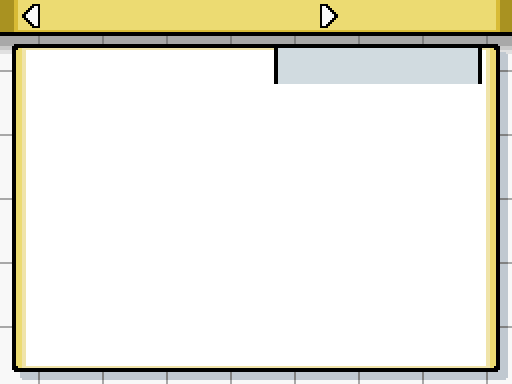
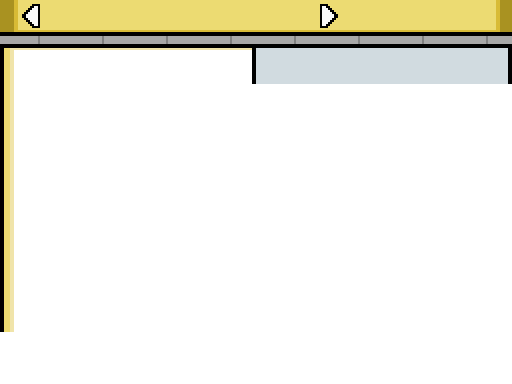
Basic version of tutor moves list sorting options in masterdex
Can press Special to cycle through sorting by name, base power, and type (with backup sort by name for collissions)

Changed region(s): [[0.0, 0.0938, 1.0, 1.0], [0.4688, 0.125, 0.5625, 0.2188]]

diff --git a/Plugins/Tectonic MasterDex/PokeDex Entry/PokemonPokedexInfo_Scene.rb b/Plugins/Tectonic MasterDex/PokeDex Entry/PokemonPokedexInfo_Scene.rb
@@ -73,12 +73,12 @@ class PokemonPokedexInfo_Scene
         @sprites["downarrow"].play
         @sprites["downarrow"].visible = false
         @sprites["leftarrow"] = AnimatedSprite.new("Graphics/Pictures/leftarrow", 8, 40, 28, 2, @viewport)
-        @sprites["leftarrow"].x = 48
+        @sprites["leftarrow"].x = 32
         @sprites["leftarrow"].y = 52
         @sprites["leftarrow"].play
         @sprites["leftarrow"].visible = false
         @sprites["rightarrow"] = AnimatedSprite.new("Graphics/Pictures/rightarrow", 8, 40, 28, 2, @viewport)
-        @sprites["rightarrow"].x = 184
+        @sprites["rightarrow"].x = 172
         @sprites["rightarrow"].y = 52
         @sprites["rightarrow"].play
         @sprites["rightarrow"].visible = false
@@ -86,7 +86,7 @@ class PokemonPokedexInfo_Scene
         @sprites["selectionarrow"] = IconSprite.new(0, 0, @viewport)
         @sprites["selectionarrow"].setBitmap("Graphics/Pictures/selarrow")
         @sprites["selectionarrow"].visible = false
-        @sprites["selectionarrow"].x = 32
+        @sprites["selectionarrow"].x = 20
         # Create the move extra info display
         @moveInfoDisplay = SpriteWrapper.new(@viewport)
         @moveInfoDisplay.bitmap = @moveInfoDisplayBitmap.bitmap
@@ -98,6 +98,7 @@ class PokemonPokedexInfo_Scene
 
         @scroll = -1
         @horizontalScroll = 0
+        $PokemonGlobal.dex_tutor_list_sort_mode = 0 if $PokemonGlobal.dex_tutor_list_sort_mode.nil?
         @showShinyForms = $PokemonGlobal.dex_forms_shows_shinies || false
         @title = "Undefined"
         pbSetSystemFont(@sprites["overlay"].bitmap)
@@ -692,6 +693,7 @@ sp.form) && !Settings::DEX_SHOWS_ALL_FORMS
     MAX_LENGTH_MOVE_LIST = 7
     MOVE_LIST_SUMMARY_MOVE_NAMES_Y_INIT = 54
 
+
     def drawPageLevelUpMoves
         bg_path = "Graphics/Pictures/Pokedex/bg_moves"
         bg_path += "_dark" if darkMode?
@@ -699,7 +701,7 @@ sp.form) && !Settings::DEX_SHOWS_ALL_FORMS
         overlay = @sprites["overlay"].bitmap
         formname = ""
         selected_move = nil
-        xLeft = 36
+        xLeft = 24
         for i in @available
             next unless i[2] == @form
             formname = i[0]
@@ -716,7 +718,7 @@ sp.form) && !Settings::DEX_SHOWS_ALL_FORMS
                 levelLabel = _INTL("E") if level == 0
                 # Draw stat line
                 offsetX = 0
-                maxWidth = displayIndex == 0 ? 158 : 170
+                maxWidth = displayIndex == 0 ? 170 : 182
                 moveName, moveColor, moveShadow = getFormattedMoveName(move, maxWidth)
                 if listIndex == @scroll
                     offsetX = 12
@@ -742,49 +744,76 @@ sp.form) && !Settings::DEX_SHOWS_ALL_FORMS
         bg_path += "_dark" if darkMode?
         @sprites["background"].setBitmap(_INTL(bg_path))
         overlay = @sprites["overlay"].bitmap
-        formname = ""
         base   = MessageConfig.pbDefaultTextMainColor
         shadow = MessageConfig.pbDefaultTextShadowColor
 
         selected_move = nil
-        xLeft = 36
+        xLeft = 24
         for i in @available
             next unless i[2] == @form
-            formname = i[0]
             species_data = GameData::Species.get_species_form(@species, i[2])
             firstSpecies = species_data
             while GameData::Species.get(firstSpecies.get_previous_species) != firstSpecies
                 firstSpecies = GameData::Species.get(firstSpecies.get_previous_species)
             end
 
-            compatibleMoves = firstSpecies.egg_moves + species_data.tutor_moves
-            compatibleMoves.uniq!
-            compatibleMoves.compact!
+            # Create the seperate moves list
+            compatibleMoves = species_data.learnable_moves
             compatiblePhysMoves = compatibleMoves.select do |move|
                 movaData = GameData::Move.get(move)
                 next movaData.category == 0 || movaData.category == 3
             end
-            compatiblePhysMoves.sort_by!{|moveID| GameData::Move.get(moveID).name}
             compatibleSpecMoves = compatibleMoves.select do |move|
                 movaData = GameData::Move.get(move)
                 next movaData.category == 1 || movaData.category == 3
             end
-            compatibleSpecMoves.sort_by!{|moveID| GameData::Move.get(moveID).name}
             compatibleStatusMoves = compatibleMoves.select do |move|
                 movaData = GameData::Move.get(move)
                 next movaData.category == 2
             end
-            compatibleStatusMoves.sort_by!{|moveID| GameData::Move.get(moveID).name}
+
+            # sort the moves lists
+            tutorMovesSorting = Proc.new { |moveA, moveB|
+                moveAData = GameData::Move.get(moveA)
+                moveBData = GameData::Move.get(moveB)
+                case $PokemonGlobal.dex_tutor_list_sort_mode
+                when 0
+                    next moveAData.name <=> moveBData.name
+                when 1
+                    if moveAData.base_damage == moveBData.base_damage
+                        next moveAData.name <=> moveBData.name
+                    else
+                        next moveBData.base_damage <=> moveAData.base_damage # reversed
+                    end
+                when 2
+                    if moveAData.type == moveBData.type
+                        next moveAData.name <=> moveBData.name
+                    else
+                        next GameData::Type.get(moveAData.type).id_number <=> GameData::Type.get(moveBData.type).id_number
+                    end
+                end
+            }
+            compatiblePhysMoves.sort!{ |moveA, moveB|
+                tutorMovesSorting.call(moveA, moveB)
+            }
+            compatibleSpecMoves.sort!{ |moveA, moveB|
+                tutorMovesSorting.call(moveA, moveB)
+            }
+            compatibleStatusMoves.sort!{ |moveA, moveB|
+                tutorMovesSorting.call(moveA, moveB)
+            }
+
+            # render the moves lists
             @scrollableLists = [compatiblePhysMoves, compatibleSpecMoves, compatibleStatusMoves]
             categoryName = [_INTL("Physical"),_INTL("Special"),_INTL("Status")][@horizontalScroll]
-            drawFormattedTextEx(overlay, xLeft, 60, 192, "<ac><b>#{categoryName}</b></ac>", base, shadow)
+            drawFormattedTextEx(overlay, xLeft, 54, 192, "<ac><b>#{categoryName}</b></ac>", base, shadow)
             displayIndex = 1
             listIndex = -1
             if @scrollableLists[@horizontalScroll].length > 0
                 @scrollableLists[@horizontalScroll].each_with_index do |move, _index|
                     listIndex += 1
                     next if listIndex < @scroll
-                    maxWidth = displayIndex == 0 ? 188 : 200
+                    maxWidth = displayIndex == 0 ? 200 : 212
                     moveName, moveColor, moveShadow = getFormattedMoveName(move, 200)
                     offsetX = 0
                     if listIndex == @scroll
@@ -1187,11 +1216,34 @@ sp.form) && !Settings::DEX_SHOWS_ALL_FORMS
                 @scroll = -1
                 drawPage(@page)
                 break
+            elsif Input.trigger?(Input::SPECIAL)
+                if @page == 7 # Move tutor list
+                    pbPlayDecisionSE
+                    if $PokemonGlobal.dex_tutor_list_sort_mode >= 2
+                        $PokemonGlobal.dex_tutor_list_sort_mode = 0
+                    else
+                        $PokemonGlobal.dex_tutor_list_sort_mode += 1
+                    end
+                    alertToDexTutorListSortMode
+                    @scroll = 0
+                    doRefresh = true
+                end
             end
             drawPage(@page) if doRefresh
         end
         @sprites["leftarrow"].visible = false
         @sprites["rightarrow"].visible = false
+    end
+
+    def alertToDexTutorListSortMode
+        case $PokemonGlobal.dex_tutor_list_sort_mode
+        when 0
+            pbMessage(_INTL("Tutor moves now sorted by name."))
+        when 1
+            pbMessage(_INTL("Tutor moves now sorted by base power."))
+        when 2
+            pbMessage(_INTL("Tutor moves now sorted by type."))
+        end
     end
 
     def pbScrollEvolutions
@@ -1469,7 +1521,16 @@ sp.form) && !Settings::DEX_SHOWS_ALL_FORMS
             elsif Input.pressex?(:NUMBER_0)
                 dorefresh = true if moveToPage(10)
             elsif Input.trigger?(Input::SPECIAL)
-                if @page == 10
+                if @page == 7 # Move tutor list
+                    pbPlayDecisionSE
+                    if $PokemonGlobal.dex_tutor_list_sort_mode >= 2
+                        $PokemonGlobal.dex_tutor_list_sort_mode = 0
+                    else
+                        $PokemonGlobal.dex_tutor_list_sort_mode += 1
+                    end
+                    alertToDexTutorListSortMode
+                    dorefresh = true
+                elsif @page == 10
                     pbPlayDecisionSE
                     @showShinyForms = !@showShinyForms
                     $PokemonGlobal.dex_forms_shows_shinies = @showShinyForms

diff --git a/Plugins/Tectonic Other/Globals/GlobalMetadata.rb b/Plugins/Tectonic Other/Globals/GlobalMetadata.rb
@@ -19,6 +19,9 @@ class PokemonGlobalMetadata
     attr_accessor :pokedexDex      # Dex currently looking at (-1 is National Dex)
     attr_accessor :pokedexIndex    # Last species viewed per Dex
     attr_accessor :pokedexMode     # Search mode
+    attr_accessor :stored_search
+    attr_accessor :dex_forms_shows_shinies
+    attr_accessor :dex_tutor_list_sort_mode
     # Day Care
     attr_accessor :daycare
     attr_accessor :daycareEgg
@@ -51,7 +54,7 @@ class PokemonGlobalMetadata
     attr_accessor :safesave
     # Dexnav
     attr_accessor :dexNavEggMovesUnlocked
-	  attr_accessor :caughtCountsPerMap
+    attr_accessor :caughtCountsPerMap
     # Exp-EZ Dispenser
     attr_accessor :expJAR
     # Aid kit
@@ -60,9 +63,6 @@ class PokemonGlobalMetadata
     attr_accessor :teamHealerUpgrades
     # Tarot amulet
     attr_accessor :tarot_amulet_active
-    # MasterDex
-    attr_accessor :stored_search
-    attr_accessor :dex_forms_shows_shinies
     # Randomizer
     attr_accessor :randomizedData
     attr_accessor :isRandomizer
@@ -138,6 +138,8 @@ class PokemonGlobalMetadata
         # Masterdex
         @stored_search		  = nil
         @dex_forms_shows_shinies = false
+        @dex_tutor_list_sort_mode = 0
+
         @omnitutor_active     = false
         @noise_machine_state  = 0
         @exp_multiplier       = 1.0

diff --git a/Plugins/Tectonic Graphics and UI/Menus/MoveInfo.rb b/Plugins/Tectonic Graphics and UI/Menus/MoveInfo.rb
@@ -164,7 +164,7 @@ module MoveInfoDisplay
       row2ValueY = row2LabelY + 32
       row3ValueY = row3LabelY + 32
 
-      nameX = 374
+      nameX = 382
       nameY = 46
       descriptionX = 8
       descriptionY = 286
